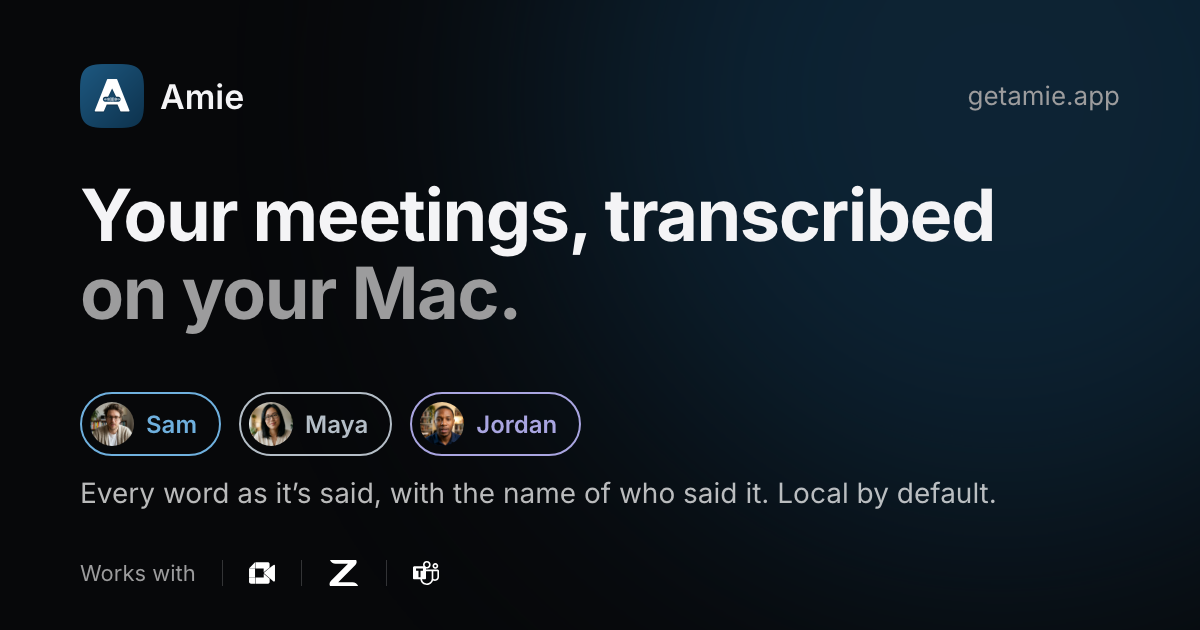
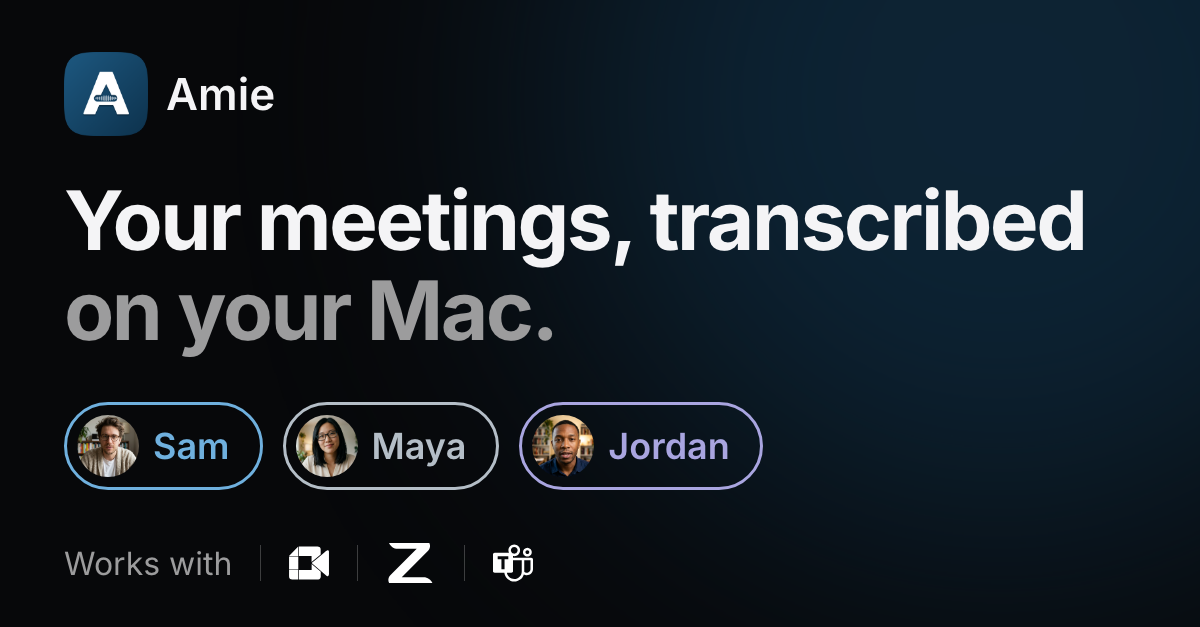
Make the share image readable at LinkedIn's small thumbnail size
Bigger headline, speaker pills and works-with logos, and drop the small
subline. Image is now 1200x627, LinkedIn's preferred size.

diff --git a/apps/web/src/lib/site.ts b/apps/web/src/lib/site.ts
@@ -4,6 +4,6 @@ export const SITE_NAME = "Amie";
 export const OG_IMAGE = {
   url: `${SITE_URL}/og.png`,
   width: 1200,
-  height: 630,
+  height: 627,
   alt: "Amie — your meetings, transcribed on your Mac. Names every speaker. Works with Google Meet, Zoom and Microsoft Teams.",
 };
